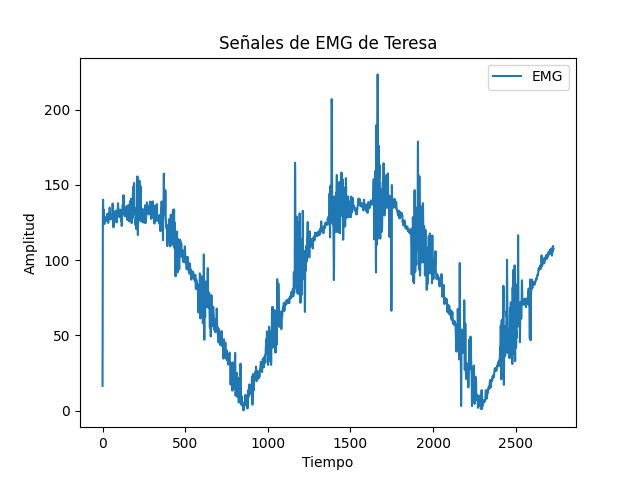
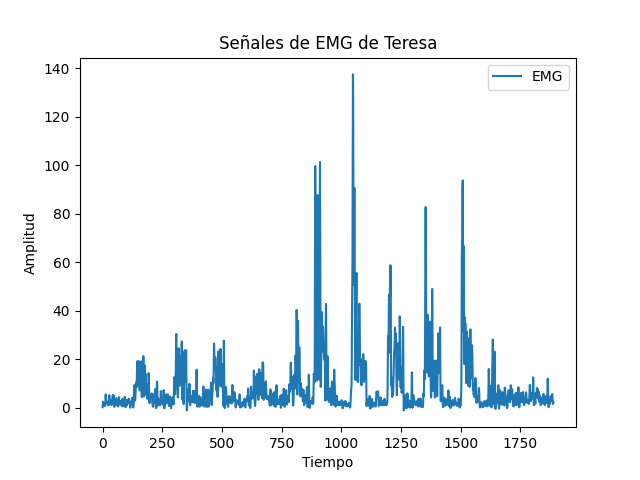
nuevos graficos

diff --git a/EMGAnalisis/EMG.py b/EMGAnalisis/EMG.py
@@ -70,7 +70,7 @@ class EMG():
 if __name__ == "__main__":
     emgP = EMG("Pelayo", "./Data/EMG_Pelayo.txt", "./csv/EMG/EMG_Pelayo.csv")
     emgE = EMG("Esther", "./Data/EMG_Esther.txt", "./csv/EMG/EMG_Esther.csv")
-    emgT = EMG("Teresa", "./Data/EMG_Teresa.txt", "./csv/EMG/EMG_Teresa.csv")
+    emgT = EMG("Teresa", "./Data/EMG_tere2.txt", "./csv/EMG/EMG_tere2.csv")
     emgM = EMG("Moyis", "./Data/EMG_Moyis.txt", "./csv/EMG/EMG_Moyis.csv")
 
     #Limpieza de datos
